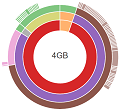
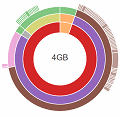
add navigation between dataviz also : fix import in health, fix thumbnail size

diff --git a/app/modules/dashboard/dataviz/index.js b/app/modules/dashboard/dataviz/index.js
@@ -11,7 +11,6 @@ import xoApi from 'xo-api'
 import xoCircleD3 from 'xo-circle-d3'
 import xoParallelD3 from 'xo-parallel-d3'
 import xoSunburstD3 from 'xo-sunburst-d3'
-import xoWeekHeatmap from'xo-week-heatmap'
 
 import view from './view'
 
@@ -21,8 +20,7 @@ export default angular.module('dashboard.dataviz', [
   xoApi,
   xoCircleD3,
   xoParallelD3,
-  xoSunburstD3,
-  xoWeekHeatmap
+  xoSunburstD3
 ])
 .config(function ($stateProvider) {
   $stateProvider.state('dashboard.dataviz', {
@@ -30,7 +28,7 @@ export default angular.module('dashboard.dataviz', [
     data: {
       requireAdmin: true
     },
-    url: '/dataviz',
+    url: '/dataviz/:chart',
     template: view
   })
 })
@@ -42,7 +40,30 @@ export default angular.module('dashboard.dataviz', [
     return filter(objects, object => object.type === type)
   }
 })
-.controller('Dataviz', function ($scope, xoApi, xoAggregate, xo, $timeout) {
+.controller('Dataviz', function ($scope, $state) {
+  $scope.selectedChart = ''
+  $scope.availablecharts = {
+    sunburst: {
+      name: 'Sunburst charts',
+      imgs: ['images/sunburst.png', 'images/sunburst2.png'],
+      url: '/dataviz/sunburst'
+    },
+    circle: {
+      name: 'Circles charts',
+      imgs: ['images/circle1.png', 'images/circle2.png'],
+      url: '/dataviz/circle'
+    },
+    parcoords: {
+      name: 'VM properties',
+      imgs: ['images/parcoords.png'],
+      url: '/dataviz/parcoords'
+    }
+  }
+  $scope.$on('$stateChangeSuccess', function updatePage () {
+    $scope.selectedChart = $state.params.chart
+  })
+})
+.controller('DatavizParcoords', function DatavizParcoords (xoApi, $scope, $timeout, $interval, $state, bytesToSizeFilter) {
   let hostsByPool, vmsByContainer, data
   data = []
   hostsByPool = xoApi.getIndex('hostsByPool')
@@ -89,37 +110,6 @@ export default angular.module('dashboard.dataviz', [
         nbvdi: 'VDI number',
         vdisize: 'Total space'
       }
-    }
-    $scope.availablecharts = {
-      sunburstram: {
-        name: 'Memory usage',
-        img: 'images/sunburst.png'
-      },
-      sunburststorage: {
-        name: 'Storage',
-        img: 'images/sunburst2.png'
-      },
-      circleram: {
-        name: 'Memory usage',
-        img: 'images/circle1.png'
-      },
-      circlestorage: {
-        name: 'Storage',
-        img: 'images/circle2.png'
-      },
-      parcoords: {
-        name: 'VM properties',
-        img: 'images/parcoords.png'
-      }
-    }
-
-    $scope.toggle = function (id) {
-      $scope.availablecharts[id].selected = !$scope.availablecharts[id].selected
-    }
-
-    $scope.isChartVisible = function (id) {
-      return !!$scope.availablecharts[id] &&
-        !!$scope.availablecharts[id].selected
     }
   }
 

diff --git a/app/modules/dashboard/health/index.js b/app/modules/dashboard/health/index.js
@@ -10,13 +10,16 @@ import xoApi from 'xo-api'
 import xoHorizon from'xo-horizon'
 import xoServices from 'xo-services'
 
+import xoWeekHeatmap from'xo-week-heatmap'
+
 import view from './view'
 
 export default angular.module('dashboard.health', [
   uiRouter,
   xoApi,
   xoHorizon,
-  xoServices
+  xoServices,
+  xoWeekHeatmap
 ])
   .config(function ($stateProvider) {
     $stateProvider.state('dashboard.health', {
